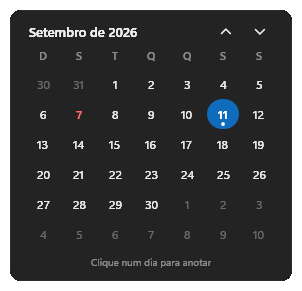
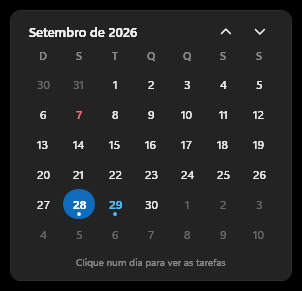
docs: Prints do manual em dia — tarefas, lembrete, cota e atualizações
Quatro imagens novas e duas atualizadas. As seções de Cota de IA e de
Atualizações esperando estavam sem print nenhum, e o do calendário mostrava um
cartão anterior aos balões.

As tarefas dos prints são fictícias, e isso é a regra, não um detalhe: o
repositório é público, e as tarefas de verdade desta máquina têm número de
pedido e nome de cliente dentro. No cartão da cota, os dois nomes de conta estão
cobertos por tarja — as barras, os planos e o desenho continuam legíveis, que é
o que o manual precisa mostrar.

Duas seções seguem sem print, e por falta de cenário: Remover dispositivo
externo precisa de um pen-drive espetado na hora, e Brilho só aparece quando o
monitor aceita DDC/CI.

diff --git a/docs/MANUAL.md b/docs/MANUAL.md
@@ -185,8 +185,10 @@ houver alguma esperando (veja [Atualizações esperando](#atualizações-esperan
 #### Calendário
 
 ![O calendário](img/card-calendario.png)
+![As tarefas do dia escolhido](img/card-tarefas.png)
 
-Clique na data, na barra de cima, e o mês aparece. Dentro dele:
+Clique na data, na barra de cima, e o mês aparece; clique num dia e as tarefas dele aparecem
+embaixo, no próprio cartão. Dentro dele:
 
 - **Feriados nacionais em vermelho**, com o nome na dica de mouse. São calculados, não uma lista
   fixa: os móveis (Carnaval, Sexta-feira Santa, Corpus Christi) saem da data da Páscoa, então
@@ -230,6 +232,8 @@ Clique na data, na barra de cima, e o mês aparece. Dentro dele:
   **Mover**) leva a tarefa; **Cancelar** desiste. Dia e mês bastam (`15/09`); sem o ano vale o do
   dia aberto, e uma data que cairia muito para trás (digitar `05/01` com um dia de dezembro aberto)
   é entendida como o ano que vem.
+
+![O balão do lembrete](img/lembrete.png)
 
 As anotações ficam em `CalendarNotes`, no `config.json`.
 
@@ -316,6 +320,8 @@ externo**.
 
 #### Cota de IA
 
+![O cartão da cota](img/card-cota.png)
+
 Quanto da sua cota do Claude já foi usada — a janela de **5 horas**, a de **7 dias** e as que
 houver por modelo —, cada uma com o quanto falta para zerar. É o mesmo número que o `/usage` do
 Claude Code mostra.
@@ -361,6 +367,8 @@ Três coisas que vale saber:
   mostrando os últimos números**, com um aviso em âmbar dizendo de quando eles são.
 
 #### Atualizações esperando
+
+![O cartão das atualizações](img/card-atualizacoes.png)
 
 Uma seta à esquerda do velocímetro da cota: **azul, com o número, quando há o que atualizar**;
 **cinza quando está tudo em dia**. Apagada ela ainda responde a uma pergunta — a de que a dock está
